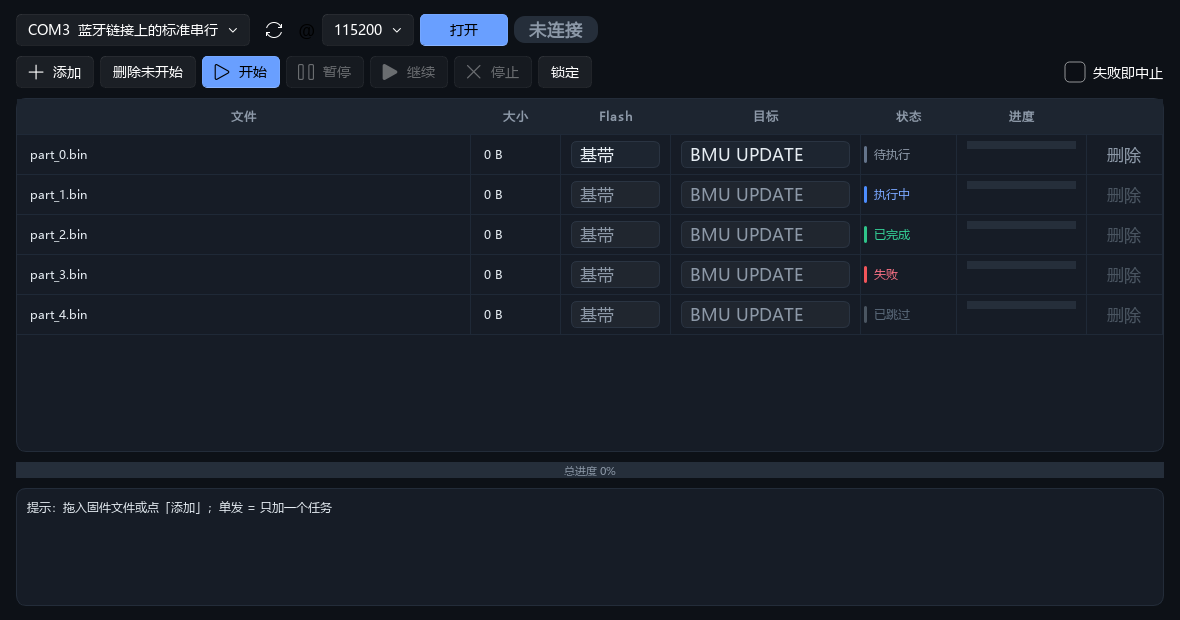
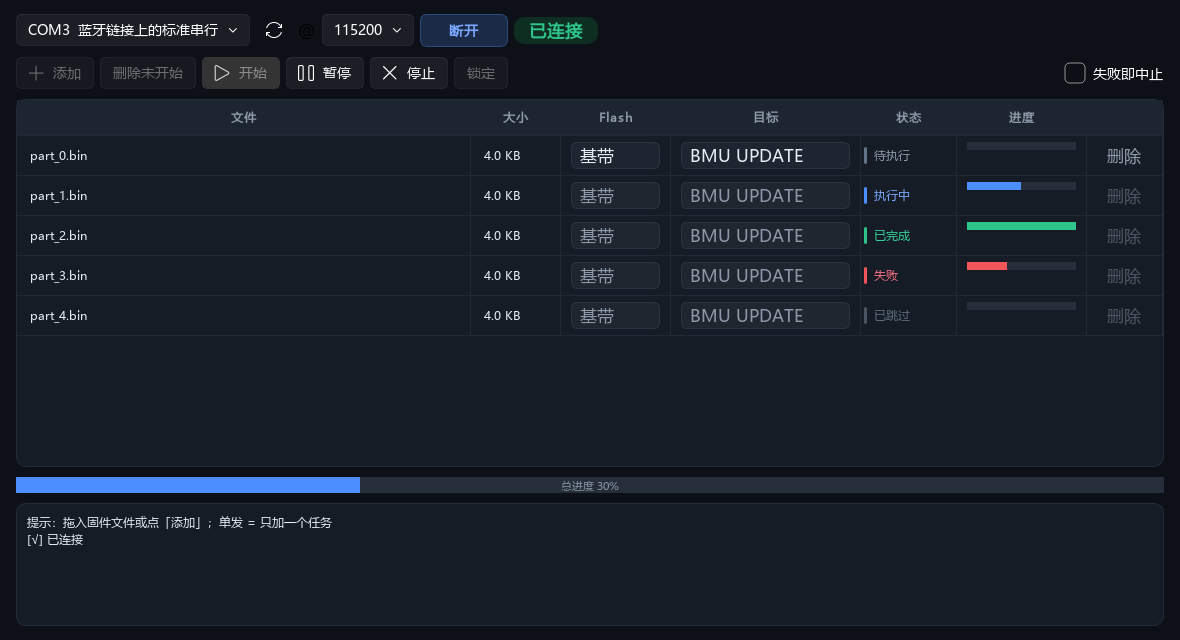
style(gui-ng): 按钮层级(断开浅蓝) + 暂停继续合并双面按钮 + 停止二次确认 + 进度条状态色

diff --git a/uicmp/apps/transfer_app.py b/uicmp/apps/transfer_app.py
@@ -152,6 +152,7 @@ class TransferApp(QDialog):
         from uicmp.guicore.serial_link import SerialLink
         self.link = link if link is not None else SerialLink()
         self.queue = TransferQueue(self.link)
+        self._total_kind_cache = None
 
         self._build()
         self.apply_theme(False)
@@ -176,20 +177,19 @@ class TransferApp(QDialog):
         self.btn_add = PushButton(FIF.ADD, '添加')
         self.btn_del_pending = PushButton('删除未开始')
         self.btn_start = PrimaryPushButton(FIF.PLAY, '开始')
+        # 暂停/继续 = 同一位置的双面按钮（省一个按钮、少一步认知）
         self.btn_pause = PushButton(FIF.PAUSE, '暂停')
-        self.btn_resume = PushButton(FIF.PLAY_SOLID, '继续')
         self.btn_stop = PushButton(FIF.CLOSE, '停止')
         self.btn_lock = PushButton('锁定')
-        for w in (self.btn_add, self.btn_del_pending,
-                  self.btn_start, self.btn_pause, self.btn_resume,
-                  self.btn_stop, self.btn_lock):
+        for w in (self.btn_add, self.btn_del_pending, self.btn_start,
+                  self.btn_pause, self.btn_stop, self.btn_lock):
             tools.addWidget(w)
         tools.addStretch(1)
         self.chk_abort = CheckBox('失败即中止')
         self.chk_abort.setToolTip('不勾选：失败跳过继续下一个（旧行为）')
         tools.addWidget(self.chk_abort)
+        self._paused = False
         self.btn_pause.setEnabled(False)
-        self.btn_resume.setEnabled(False)
         self.btn_stop.setEnabled(False)
         v.addLayout(tools)
 
@@ -232,14 +232,45 @@ class TransferApp(QDialog):
         self.btn_add.clicked.connect(self._pick_files)
         self.btn_del_pending.clicked.connect(self._del_pending)
         self.btn_start.clicked.connect(self._start)
-        self.btn_pause.clicked.connect(self.queue.pause)
-        self.btn_resume.clicked.connect(self.queue.resume)
-        self.btn_stop.clicked.connect(self.queue.cancel)
+        self.btn_pause.clicked.connect(self._toggle_pause)
+        self.btn_stop.clicked.connect(self._stop)
         self.btn_lock.clicked.connect(self._toggle_lock)
         self.queue.task_changed.connect(self._on_task_changed)
         self.queue.queue_finished.connect(self._on_queue_finished)
         self.queue.queue_cancelled.connect(
             lambda: self.log('队列已取消'))
+
+    def _toggle_pause(self):
+        """暂停 ⇄ 继续：同一按钮双面切换。"""
+        if not self.queue.is_running:
+            return
+        self._paused = not self._paused
+        if self._paused:
+            self.queue.pause()
+            self.btn_pause.setText('继续')
+            self.btn_pause.setIcon(FIF.PLAY)
+            self.log('已暂停（当前帧完成后生效）')
+        else:
+            self.queue.resume()
+            self.btn_pause.setText('暂停')
+            self.btn_pause.setIcon(FIF.PAUSE)
+            self.log('已继续')
+
+    def _stop(self):
+        """停止 = 中断当前传输（不可逆：设备可能停在半写状态）→ 二次确认。"""
+        if not self.queue.is_running:
+            return
+        if not self._confirm_stop():
+            return
+        self.queue.cancel()
+
+    def _confirm_stop(self):
+        """抽成独立方法：冒烟测试可替换（offscreen 下不能真弹窗）。"""
+        from qfluentwidgets import MessageBox
+        box = MessageBox(
+            '确定中断当前传输？',
+            '设备可能停留在半写状态，需重新下载才能恢复。', self)
+        return bool(box.exec())
 
     def _wrap(self, w):
         h = QHBoxLayout()
@@ -301,11 +332,15 @@ class TransferApp(QDialog):
     def _set_running_ui(self, running):
         self.btn_start.setEnabled(not running)
         self.btn_pause.setEnabled(running)
-        self.btn_resume.setEnabled(running)
         self.btn_stop.setEnabled(running)
         self.btn_add.setEnabled(not running)
         self.btn_del_pending.setEnabled(not running)
         self.btn_lock.setEnabled(not running)
+        if not running:
+            # 队列结束：暂停按钮复位成「暂停」面
+            self._paused = False
+            self.btn_pause.setText('暂停')
+            self.btn_pause.setIcon(FIF.PAUSE)
 
     def _on_task_changed(self, idx):
         if idx < 0:
@@ -381,7 +416,9 @@ class TransferApp(QDialog):
         bar.setTextVisible(False)
         pct = int(t.transferred * 100 / t.total) if t.total else 0
         bar.setValue(pct)
-        bar.setStyleSheet(theme.progress_qss(self._dark, height=8))
+        # 进度条也是图形元素：和状态色条同族上色（蓝/绿/红/灰）
+        bar.setStyleSheet(theme.progress_qss(
+            self._dark, height=8, kind=STATE_KEY.get(t.status, 'pending')))
         self.table.setCellWidget(row, COL_PROGRESS, bar)
 
         del_btn = QPushButton('删除')
@@ -412,6 +449,24 @@ class TransferApp(QDialog):
         total = sum(t.total for t in tasks)
         done = sum(t.transferred for t in tasks if t.status != T_FAILED)
         self.total_bar.setValue(int(done * 100 / total) if total else 0)
+        # 总进度条跟随队列整体状态变色（只在状态变化时重设，避免频繁刷 QSS）
+        kind = self._total_kind()
+        if kind != self._total_kind_cache:
+            self._total_kind_cache = kind
+            self.total_bar.setStyleSheet(
+                theme.progress_qss(self._dark, height=16, kind=kind))
+
+    def _total_kind(self):
+        tasks = self.queue.tasks
+        if not tasks:
+            return 'pending'
+        if any(t.status == T_RUNNING for t in tasks):
+            return 'running'
+        if any(t.status == T_FAILED for t in tasks):
+            return 'failed'
+        if any(t.status == T_DONE for t in tasks):
+            return 'done'
+        return 'pending'
 
     @staticmethod
     def _fmt(n):
@@ -445,7 +500,7 @@ class TransferApp(QDialog):
             theme.table_qss(dark) + theme.scrollbar_qss(dark))
         self.drop_area.setStyleSheet(theme.drop_area_qss(dark))
         self.log_view.setStyleSheet(theme.log_qss(dark))
-        self.total_bar.setStyleSheet(theme.progress_qss(dark, height=16))
+        self._total_kind_cache = None      # 主题变了，总进度条样式要重算
         self._refresh_table()
         theme.fix_fonts(self)
 

diff --git a/tools/shot_states.py b/tools/shot_states.py
@@ -1,0 +1,82 @@
+# -*- coding: utf-8 -*-
+r"""状态预览图：五状态任务 + 已连接态 + 进度条状态色（浅/深）。
+
+用途：色板与交互的验收图。改色板/按钮态后跑一遍，输出到 docs/gui_ng/。
+跑法：
+  C:\hkj\anaconda3\envs\pyqt_side_all_0328\python.exe tools\shot_states.py
+"""
+import os
+import sys
+import tempfile
+
+os.environ.setdefault('QT_QPA_PLATFORM', 'offscreen')
+_ROOT = os.path.dirname(os.path.dirname(os.path.abspath(__file__)))
+for p in (_ROOT, os.path.join(_ROOT, 'tools')):
+    if p not in sys.path:
+        sys.path.insert(0, p)
+
+from PyQt5.QtCore import QTimer, QEventLoop
+from PyQt5.QtWidgets import QApplication
+from PyQt5.QtGui import QFontDatabase
+
+from fake_device import DeviceMedia
+from uicmp.apps.transfer_app import TransferApp
+from uicmp.guicore.transfer_queue import (TransferTask, T_PENDING, T_RUNNING,
+                                          T_DONE, T_FAILED, T_SKIPPED)
+
+OUT = os.path.join(_ROOT, 'docs', 'gui_ng')
+os.makedirs(OUT, exist_ok=True)
+
+
+def settle(ms=700):
+    """等 qfluentwidgets 入场动画稳定（不等会截出假缺失，实测坑）。"""
+    loop = QEventLoop()
+    QTimer.singleShot(ms, loop.quit)
+    loop.exec_()
+
+
+def main():
+    app = QApplication(sys.argv)
+    QFontDatabase.addApplicationFont('C:/Windows/Fonts/msyh.ttc')
+
+    d = tempfile.mkdtemp()
+    files = []
+    for i in range(5):
+        p = os.path.join(d, 'part_%d.bin' % i)
+        with open(p, 'wb') as f:
+            f.write(bytes(4096))
+        files.append(p)
+
+    w = TransferApp()
+    w.resize(1180, 640)
+    w.show()
+
+    # 五个状态各一行（进度条颜色应分别为 灰/蓝/绿/红/浅灰）
+    for i, st in enumerate((T_PENDING, T_RUNNING, T_DONE, T_FAILED, T_SKIPPED)):
+        t = TransferTask(file_path=files[i], total=4096,
+                         flash_value=0xFB, mem_value=0x06)
+        t.status = st
+        if st == T_RUNNING:
+            t.transferred = 2048
+        if st == T_DONE:
+            t.transferred = 4096
+        if st == T_FAILED:
+            t.transferred = 1536
+            t.error = '示例：等待 data 应答超时（1.5s）'
+        w.queue.tasks.append(t)
+    w._refresh_table()
+
+    # 注入假链路并打开 → 「断开」浅蓝按钮 + 已连接徽章 + 主按钮让位给「开始」
+    w.link.open('FAKE', media=DeviceMedia())
+    w._set_running_ui(True)          # 运行中按钮态（暂停/停止可用）
+    settle()
+    w.grab().save(os.path.join(OUT, 'state_palette_light.png'))
+
+    w.toggle_theme()
+    settle()
+    w.grab().save(os.path.join(OUT, 'state_palette_dark.png'))
+    print('saved state_palette_light.png / state_palette_dark.png')
+
+
+if __name__ == '__main__':
+    main()

diff --git a/uicmp/guiwidgets/theme.py b/uicmp/guiwidgets/theme.py
@@ -324,10 +324,14 @@ def combo_qss(dark):
                disbg=_c(dark, '#e8edf3', '#20262f'))
 
 
-def progress_qss(dark, height=8):
-    """进度条：圆角轨道 + 主色填充。"""
+def progress_qss(dark, height=8, kind='running'):
+    """进度条：圆角轨道 + 状态色填充。
+
+    kind 取状态语义色（STATE_STRIPE，和表格色条同族）：
+    running=蓝 / done=绿 / failed=红 / pending·skipped=灰
+    """
     track = _c(dark, C_GRAY_BG, C_GRAY_BG_D)
-    chunk = _c(dark, C_PRIMARY, C_PRIMARY_D)
+    chunk = state_stripe(kind, dark)
     text = _c(dark, C_TEXT_SUB, C_TEXT_SUB_D)
     return '''
     QProgressBar {
@@ -342,6 +346,30 @@ def progress_qss(dark, height=8):
     }
     QProgressBar::chunk { background: %(chunk)s; border-radius: %(h)dpx; }
     ''' % dict(track=track, chunk=chunk, text=text, h=height)
+
+
+def primary_tint_qss(dark):
+    """浅蓝（主色 tint）按钮：主色家族但弱一档——用于「撤销型」主操作。
+
+    层级设计：一个界面只留一个深蓝实心主按钮表达"现在最该点的"，
+    其余同家族动作用浅蓝实心（如连接后的「断开」）。
+    """
+    bg = _c(dark, C_PRIMARY_BG, C_PRIMARY_BG_D)
+    fg = _c(dark, '#1d4ed8', '#7aa7ff')
+    border = _c(dark, '#c7dcff', '#2b4a7d')
+    press = _c(dark, '#d3e4ff', '#24406e')
+    return '''
+    QPushButton {
+        background: %(bg)s;
+        color: %(fg)s;
+        border: 1px solid %(border)s;
+        border-radius: 7px;
+        padding: 6px 13px;
+        font-weight: 600;
+    }
+    QPushButton:hover { border-color: %(fg)s; }
+    QPushButton:pressed { background: %(p)s; border-color: %(fg)s; }
+    ''' % dict(bg=bg, fg=fg, border=border, p=press)
 
 
 def table_button_qss(dark):

diff --git a/uicmp/guiwidgets/common.py b/uicmp/guiwidgets/common.py
@@ -84,11 +84,15 @@ class ConnectionBar(QWidget):
             self._link.open(self.current_port(), baud=self.current_baud())
 
     def _on_opened(self):
-        self.btn_open.setText('关闭')
+        # 「断开」是撤销型动作：主色家族但降一档（浅蓝 tint），
+        # 把深蓝实心主按钮的名额让给页面当前该做的主操作
+        self.btn_open.setText('断开')
+        self.btn_open.setStyleSheet(theme.primary_tint_qss(self._dark))
         self._set_badge('已连接', 'ok')
 
     def _on_closed(self):
         self.btn_open.setText('打开')
+        self.btn_open.setStyleSheet('')      # 恢复 PrimaryPushButton 原生深蓝
         self._set_badge('未连接', 'gray')
 
     def _on_error(self, msg):
@@ -106,3 +110,5 @@ class ConnectionBar(QWidget):
         self._dark = dark
         kind = 'ok' if self._link.is_open else 'gray'
         self._set_badge(self.badge.text(), kind)
+        if self._link.is_open:      # 断开态样式要随主题重算
+            self.btn_open.setStyleSheet(theme.primary_tint_qss(dark))
